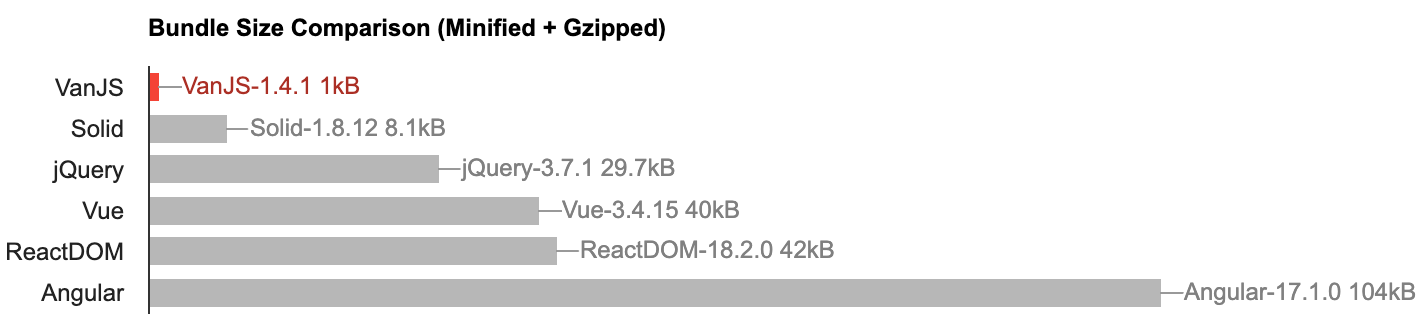
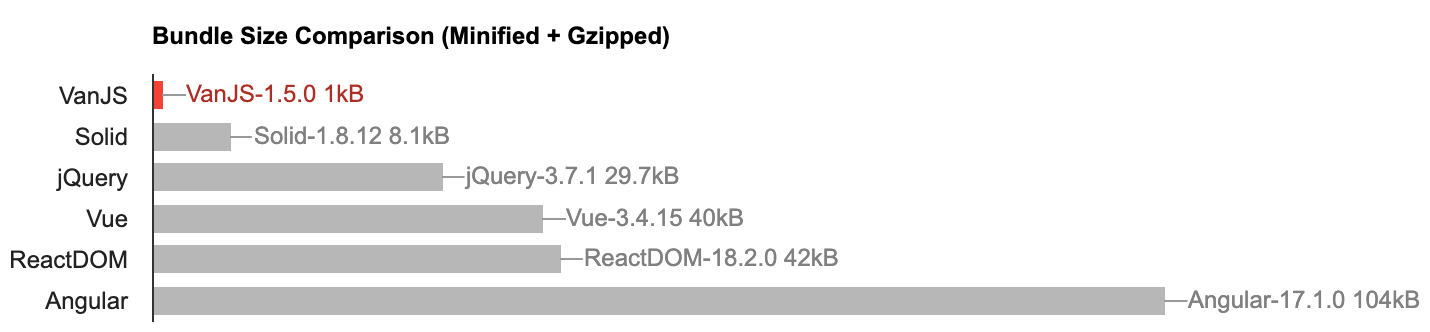
Update VanJS's version number to 1.5.0

diff --git a/demo/terminal/client.html b/demo/terminal/client.html
@@ -47,7 +47,7 @@
   </head>
   <body>
     <script type="module">
-      import van from "./van-1.4.1.min.js"
+      import van from "./van-1.5.0.min.js"
 
       const {a, div, i, input, pre, table, tbody, td, textarea, th, thead, tr} = van.tags
 

diff --git a/demo/terminal/README.md b/demo/terminal/README.md
@@ -19,7 +19,7 @@ Compare to the ordinary Unix terminal that you're familiar with, this web-based 
 
 * [`server.ts`](https://github.com/vanjs-org/van/blob/main/demo/terminal/server.ts): A Deno-based server-side script which connects to the shell of your local computer.
 * [`client.html`](https://github.com/vanjs-org/van/blob/main/demo/terminal/client.html): An HTML file served by `server.ts` with client-side implementation for the GUI of the terminal.
-* [`van-1.4.1.min.js`](https://github.com/vanjs-org/van/blob/main/demo/terminal/van-1.4.1.min.js): Minified **VanJS** code, used by `client.html`.
+* [`van-1.5.0.min.js`](https://github.com/vanjs-org/van/blob/main/demo/terminal/van-1.5.0.min.js): Minified **VanJS** code, used by `client.html`.
 
 ## Run the Terminal App in Your Local Computer
 

diff --git a/bun-examples/hydration/README.md b/bun-examples/hydration/README.md
@@ -8,7 +8,7 @@ This is a [Bun 1.0](https://bun.sh/blog/bun-v1.0)-based variation of the fullsta
 ```json
   "dependencies": {
     "mini-van-plate": "^0.5.6",
-    "vanjs-core": "^1.4.1"
+    "vanjs-core": "^1.5.0"
   },
   "devDependencies": {
     "bun": "^1.0.0",
